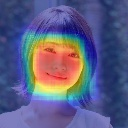
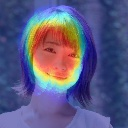
Tuned

diff --git a/src/Trainer.py b/src/Trainer.py
@@ -5,6 +5,8 @@ import os
 import numpy as np
 from .lib import utils
 
+from .lib.callbacks import select_callbacks 
+
 from logging import DEBUG
 from logging import getLogger
 
@@ -29,6 +31,11 @@ class Trainer(object):
         self.input_home = os.path.join(IMPULSO_HOME, 'datasets', f'{self.hparams["prepare"]["data_id"]}', f'{self.exec_type}')
         self.output_home = os.path.join(IMPULSO_HOME, 'experiments', f'{self.hparams["prepare"]["experiment_id"]}')
 
+        if 'ModelCheckpoint' in self.hparams[self.exec_type]['fit']['callbacks'].keys():
+            model_path = os.path.join(self.output_home, f'models')
+            model_name = 'models.{epoch:05d}-{loss:.2f}-{acc:.2f}-{val_loss:.2f}-{val_acc:.2f}.hdf5'
+            self.hparams[self.exec_type]['fit']['callbacks']['ModelCheckpoint']['hparams']['filepath'] = os.path.join(model_path, model_name)
+
         logger.info('Check hparams.yaml')
         utils.check_hparams(self.exec_type, self.hparams)
 
@@ -45,49 +52,8 @@ class Trainer(object):
         self.t_train = np.load(os.path.join(self.input_home, 't', 't.npy'))
 
 
-    def append_callbacks(self):
-        logger.info('Prepare callbacks')
-        callbacks = []
-
-        if 'ModelCheckpoint' in self.hparams[self.exec_type]['fit']['callbacks'].keys():
-            if self.hparams[self.exec_type]['fit']['callbacks']['ModelCheckpoint']['enable']:
-                logger.info('Enable: ModelCheckpoint')
-                from keras.callbacks import ModelCheckpoint
-                model_path = os.path.join(self.output_home, f'models')
-                model_name = 'models.{epoch:05d}-{loss:.2f}-{acc:.2f}-{val_loss:.2f}-{val_acc:.2f}.hdf5'
-                self.hparams[self.exec_type]['fit']['callbacks']['ModelCheckpoint']['hparams']['filepath'] = os.path.join(model_path, model_name)
-
-                callback_hparams = self.hparams[self.exec_type]['fit']['callbacks']['ModelCheckpoint']['hparams']
-                callback = ModelCheckpoint(filepath=callback_hparams['filepath'], 
-                                           monitor=callback_hparams['monitor'],
-                                           verbose=callback_hparams['verbose'],
-                                           save_best_only=callback_hparams['save_best_only'],
-                                           save_weights_only=callback_hparams['save_weights_only'],
-                                           mode=callback_hparams['mode'],
-                                           period=callback_hparams['period'])
-                callbacks.append(callback)
-            else:
-                logger.info('Disable: ModelCheckpoint')
-        
-        if 'ReduceLROnPlateau' in self.hparams[self.exec_type]['fit']['callbacks'].keys():
-            if self.hparams[self.exec_type]['fit']['callbacks']['ReduceLROnPlateau']['enable']:
-                logger.info('Enable: ReduceLROnPlateau')
-                from keras.callbacks import ReduceLROnPlateau
-                callback_hparams = self.hparams[self.exec_type]['fit']['callbacks']['ReduceLROnPlateau']['hparams']
-                callback = ReduceLROnPlateau(monitor=callback_hparams['monitor'],
-                                             factor=callback_hparams['factor'],
-                                             patience=callback_hparams['patience'],
-                                             verbose=callback_hparams['verbose'],
-                                             mode=callback_hparams['mode'],
-                                             epsilon=callback_hparams['epsilon'],
-                                             cooldown=callback_hparams['cooldown'],
-                                             min_lr=callback_hparams['min_lr'])
-                callbacks.append(callback)
-            else:
-                logger.info(f'Disable callback:{callback}')
-            
-        self.callbacks = callbacks
-
+    def get_callbacks(self):
+        self.callbacks = select_callbacks(self.hparams[self.exec_type]['fit']['callbacks'])
 
     def begin_train(self):
         hparams_fit = self.hparams[self.exec_type]['fit']

diff --git a/src/lib/callbacks.py b/src/lib/callbacks.py
@@ -1,0 +1,73 @@
+#!/usr/bin/env python
+# -*- encoding: UTF-8 -*-
+
+from keras.callbacks import ModelCheckpoint
+from keras.callbacks import ReduceLROnPlateau
+from keras.callbacks import EarlyStopping
+
+from logging import DEBUG, INFO
+from logging import getLogger
+
+# Set logger
+logger = getLogger('impulso')
+
+
+def select_callbacks(hparams):
+    """
+    Args:
+        hparams: hparams['train']['fit']['callbacks'] of hparams.yaml
+    """
+
+    logger.info('Prepare callbacks')
+    callbacks = []
+
+    if 'ModelCheckpoint' in hparams.keys():
+        if hparams['ModelCheckpoint']['enable']:
+            logger.info('Enable: ModelCheckpoint')
+            callback_hparams = hparams['ModelCheckpoint']['hparams']
+            callback = ModelCheckpoint(filepath=callback_hparams['filepath'], 
+                                       monitor=callback_hparams['monitor'],
+                                       verbose=callback_hparams['verbose'],
+                                       save_best_only=callback_hparams['save_best_only'],
+                                       save_weights_only=callback_hparams['save_weights_only'],
+                                       mode=callback_hparams['mode'],
+                                       period=callback_hparams['period'])
+            callbacks.append(callback)
+        else:
+            logger.info('Disable: ModelCheckpoint')
+    
+    if 'ReduceLROnPlateau' in hparams.keys():
+        if hparams['ReduceLROnPlateau']['enable']:
+            logger.info('Enable: ReduceLROnPlateau')
+            callback_hparams = hparams['ReduceLROnPlateau']['hparams']
+            callback = ReduceLROnPlateau(monitor=callback_hparams['monitor'],
+                                         factor=callback_hparams['factor'],
+                                         patience=callback_hparams['patience'],
+                                         verbose=callback_hparams['verbose'],
+                                         mode=callback_hparams['mode'],
+                                         epsilon=callback_hparams['epsilon'],
+                                         cooldown=callback_hparams['cooldown'],
+                                         min_lr=callback_hparams['min_lr'])
+            callbacks.append(callback)
+        else:
+            logger.info('Disable: ReduceLROnPlateau')
+
+    if 'EarlyStopping' in hparams.keys():
+        if hparams['EarlyStopping']['enable']:
+            logger.info('Enable: EarlyStopping')
+            callback_hparams = hparams['EarlyStopping']['hparams']
+            callback = EarlyStopping(monitor=callback_hparams['monitor'],
+                                     min_delta=callback_hparams['min_delta'],
+                                     patience=callback_hparams['patience'],
+                                     verbose=callback_hparams['verbose'],
+                                     mode=callback_hparams['mode'])
+            callbacks.append(callback)
+        else:
+            logger.info('Disable: EarlyStopping')
+
+    assert len(callbacks) > 0, 'Callbacks are not selected. Need to select ModelCheckpoint at least.'
+    return callbacks
+
+
+if __name__ == '__main__':
+    pass

diff --git a/src/model/ImpulsoNet.py b/src/model/ImpulsoNet.py
@@ -1,0 +1,87 @@
+#!/usr/bin/python
+# -*- coding: UTF-8 -*-
+
+import os
+
+from ..lib import optimizer
+
+import keras
+from keras.layers import Input, Dense, Flatten, BatchNormalization
+from keras.layers import Conv2D, MaxPooling2D
+from keras.models import Model
+from keras.layers.core import Dropout
+from keras import optimizers
+import tensorflow as tf
+from keras.callbacks import ReduceLROnPlateau, TensorBoard
+
+from logging import DEBUG, INFO
+from logging import getLogger
+
+# Set logger
+logger = getLogger('impulso')
+
+logger.info(tf.__version__)
+logger.info(keras.__version__)
+
+# Set HOME directory.
+IMPULSO_HOME = os.environ['IMPULSO_HOME']
+
+
+class ImpulsoNet(object):
+
+    def __init__(self, exec_type, hparams):
+        logger.info('Begin init of Aggregator')
+        self.exec_type = exec_type
+        self.hparams = hparams
+        self.output_home = os.path.join(IMPULSO_HOME, 'experiments', f'{self.hparams["prepare"]["experiment_id"]}', 'model')
+
+
+    def create_model(self):
+
+        logger.info('Begin to create VGG16 model')
+
+        logger.info('Input layer')
+        input_h = self.hparams['common']['resize']['height']
+        input_w = self.hparams['common']['resize']['width']
+        inputs = Input(shape=(input_h, input_w, 3))
+
+        logger.info('Block1')
+        x = Conv2D(16, (3, 3), activation='relu', padding='same', name='block1_conv1')(inputs)
+        x = BatchNormalization()(x)
+        x = Conv2D(16, (3, 3), activation='relu', padding='same', name='block1_conv2')(x)
+        x = BatchNormalization()(x)
+        x = Conv2D(16, (3, 3), activation='relu', padding='same', name='block1_conv3')(x)
+        x = BatchNormalization()(x)
+        x = MaxPooling2D((2, 2), strides=(2, 2), padding='same', name='block1_pool')(x)
+
+        logger.info('Full Connection')
+        flattened = Flatten(name='flatten')(x)
+        x = Dense(128, activation='relu', name='fc1')(flattened)
+        x = Dropout(0.5, name='dropout1')(x)
+
+        logger.info('Output layer')
+        predictions = Dense(input_h * input_w, activation='sigmoid', name='predictions')(x)
+
+        logger.info('Create model')
+        self.model = Model(inputs=inputs, outputs=predictions)
+
+        logger.info('Finish creating ImpulsoNet model')
+
+
+    def select_optimizer(self):
+        logger.info('Create optimizer')
+        self.selected_optimizer = optimizer.select_optimizer(self.hparams[self.exec_type]['optimizer'])
+    
+
+    def compile(self):
+        logger.info('Compile model')
+        self.model.compile(optimizer=self.selected_optimizer,
+                           loss='mean_squared_error',
+                           metrics=['accuracy'])
+        
+        self.model.summary()
+    
+
+if __name__ == '__main__':
+    pass
+    

diff --git a/src/Aggregator.py b/src/Aggregator.py
@@ -68,13 +68,16 @@ class Aggregator(object):
             image = cv2.resize(image, (resize_w, resize_h))
             images.append(image)
             # Label image
-            label_image = np.zeros(resize_h * resize_w).reshape(resize_h, resize_w)
+            label_image = np.zeros(org_h * org_w).reshape(org_h, org_w)
             for face in box['BBox']:
-                left = int(face['Left'] * resize_w / org_w)
-                top = int(face['Top'] * resize_h / org_h)
-                width = int(face['Width'] * resize_w / org_w)
-                height = int(face['Height'] * resize_h / org_h)
-                label_image[top:top+height+1, left:left+width+1] = 1.
+                Rx = face['Rx']
+                Ry = face['Ry']
+                theta = face['Theta']
+                Cx = face['Cx']
+                Cy = face['Cy']
+                label_image = label_image + self.get_ground_truth(org_h, org_w, Rx, Ry, theta, Cx, Cy)
+            label_image = cv2.resize(label_image, (resize_w, resize_h))
+            label_image = np.vectorize(int)(np.vectorize(bool)(label_image))
             labels.append(label_image.flatten())
             filenames.append(box['FileName'])
 
@@ -88,6 +91,7 @@ class Aggregator(object):
         assert len(self.x_train) == len(self.train_filename), 'Lengths of x_train and train_filename is different'
         assert len(self.x_test) == len(self.test_filename), 'Lengths of x_test and test_filename is different'
         logger.info('End loading FDDB dataset')
+
 
 
     def save_data(self):
@@ -108,6 +112,29 @@ class Aggregator(object):
         np.save(file=os.path.join(test_x_dir, 'filename.npy'), arr=self.test_filename)
 
         logger.info('End saving data')
+    
+    
+    def get_ground_truth(self, height, width, major_axis_radius, minor_axis_radius, theta, center_x, center_y):
+        arr = []
+        for h in range(height):
+            row = list(map(self.judge_pixel_inside,
+                           range(width), [h]*width,
+                           [major_axis_radius]*width, [minor_axis_radius]*width, [theta]*width,
+                           [center_x]*width, [center_y]*width))
+            arr.append(row)
+        return np.array(arr)
+
+
+    def judge_pixel_inside(self, x, y, major_axis_radius, minor_axis_radius, theta, center_x, center_y):
+        term1 = (((x-center_x)*np.cos(theta) + (y-center_y)*np.sin(theta)) / major_axis_radius)**2
+        term2 = (((x-center_x)*(-1)*np.sin(theta) + (y-center_y)*np.cos(theta)) / minor_axis_radius)**2
+        if term1 + term2 - 1 < 0:
+            return 1
+        else:
+            return 0
+
+
+
 
 
 if __name__ == '__main__':

diff --git a/impulso.py b/impulso.py
@@ -17,7 +17,7 @@ from src.Trainer import Trainer
 from src.Estimator import Estimator
 from src.Evaluator import Evaluator
 
-from src.model.SimpleNet import SimpleNet
+from src.model.ImpulsoNet import ImpulsoNet
 
 from keras.models import load_model
 
@@ -50,10 +50,9 @@ logger.addHandler(file_handler)
 class Impulso(object):
 
     ### 後で追加したい機能
-    # callbacksも外に出した方がいいなら出す
-    # Kerasのdata augmentationの機能を使う
+    # Data Augmentation: クラス分類ではないのでKerasの機能は使えないため，自力で実装する
     # latest機能：data_id, experiment_idを指定しない場合は最新のデータ，experimentを使用する
-    # Grid Search機能：python impulso.py grid でGrid Search用のhparamsのセットを作りたい
+    # Grid Search機能：Grid Searchできる機能を追加したい
     #
     ### 要注意
     # utils.check_hparamsがまともに機能していない（特にinput_path, output_pathをhparamsに書くかどうか辺り）
@@ -89,7 +88,7 @@ class Impulso(object):
         logger.info('Begin train of Impulso')
         trainer = Trainer(self.args.exec_type, self.hparams, self.model, self.args.model_id)
         trainer.load_data()
-        trainer.append_callbacks()
+        trainer.get_callbacks()
         trainer.begin_train()
         logger.info('End train of Impulso')
 
@@ -114,7 +113,7 @@ class Impulso(object):
 
     def load_model(self):
         logger.info('Load model')
-        modeler = SimpleNet(self.args.exec_type, self.hparams)
+        modeler = ImpulsoNet(self.args.exec_type, self.hparams)
         modeler.create_model()
         if self.args.exec_type == 'train':
             modeler.select_optimizer()

diff --git a/src/lib/utils.py b/src/lib/utils.py
@@ -34,7 +34,7 @@ def check_hparams(exec_type, hparams):
     
     logger.info('Check hparams keys')
     if exec_type == 'dataset':
-        need_keys = ['data_id', 'output_train', 'output_test', 'input_path', 'resize', 'test_split']
+        need_keys = ['data_id', 'output_train', 'output_test', 'input_path', 'test_split', 'augmentation']
     elif exec_type == 'prepare':
         need_keys = ['data_id', 'experiment_id', 'output_path']
     elif exec_type == 'train':

diff --git a/src/lib/optimizer.py b/src/lib/optimizer.py
@@ -13,7 +13,7 @@ logger.setLevel(DEBUG)
 def select_optimizer(hparams):
     """
     Args:
-        hparams: hparams['train']['optimizer] of hparams.yaml
+        hparams: hparams['train']['optimizer'] of hparams.yaml
     """
 
     logger.info('Select optimizer')

diff --git a/README.md b/README.md
@@ -3,11 +3,16 @@
 ## Description
 
 ## Demo
-Still not good results.  
+These images are the results at the moment.  
+Not successfully detected by multiple people.  
+Note: She is Minami HAMABE, a famous actress from Ishikawa prefecture in Japan.  
 
 ![Sample1](https://github.com/pystokes/face_segmentation/blob/master/docs/hamabe_minami_1.jpg)
 ![Sample2](https://github.com/pystokes/face_segmentation/blob/master/docs/hamabe_minami_2.jpg)
 ![Sample3](https://github.com/pystokes/face_segmentation/blob/master/docs/hamabe_minami_3.jpg)
+![Sample3](https://github.com/pystokes/face_segmentation/blob/master/docs/hamabe_minami_4.jpg)
+![Sample3](https://github.com/pystokes/face_segmentation/blob/master/docs/hamabe_minami_5.jpg)
+![Sample3](https://github.com/pystokes/face_segmentation/blob/master/docs/hamabe_minami_6.jpg)
 
 ## Requirement
 
@@ -21,7 +26,7 @@ Modify [hparams.yaml](https://github.com/pystokes/face_segmentation/blob/master/
 
 ### Create dataset
 ```
-python impulso.py data
+python impulso.py dataset
 ```
 
 ### Prepare
